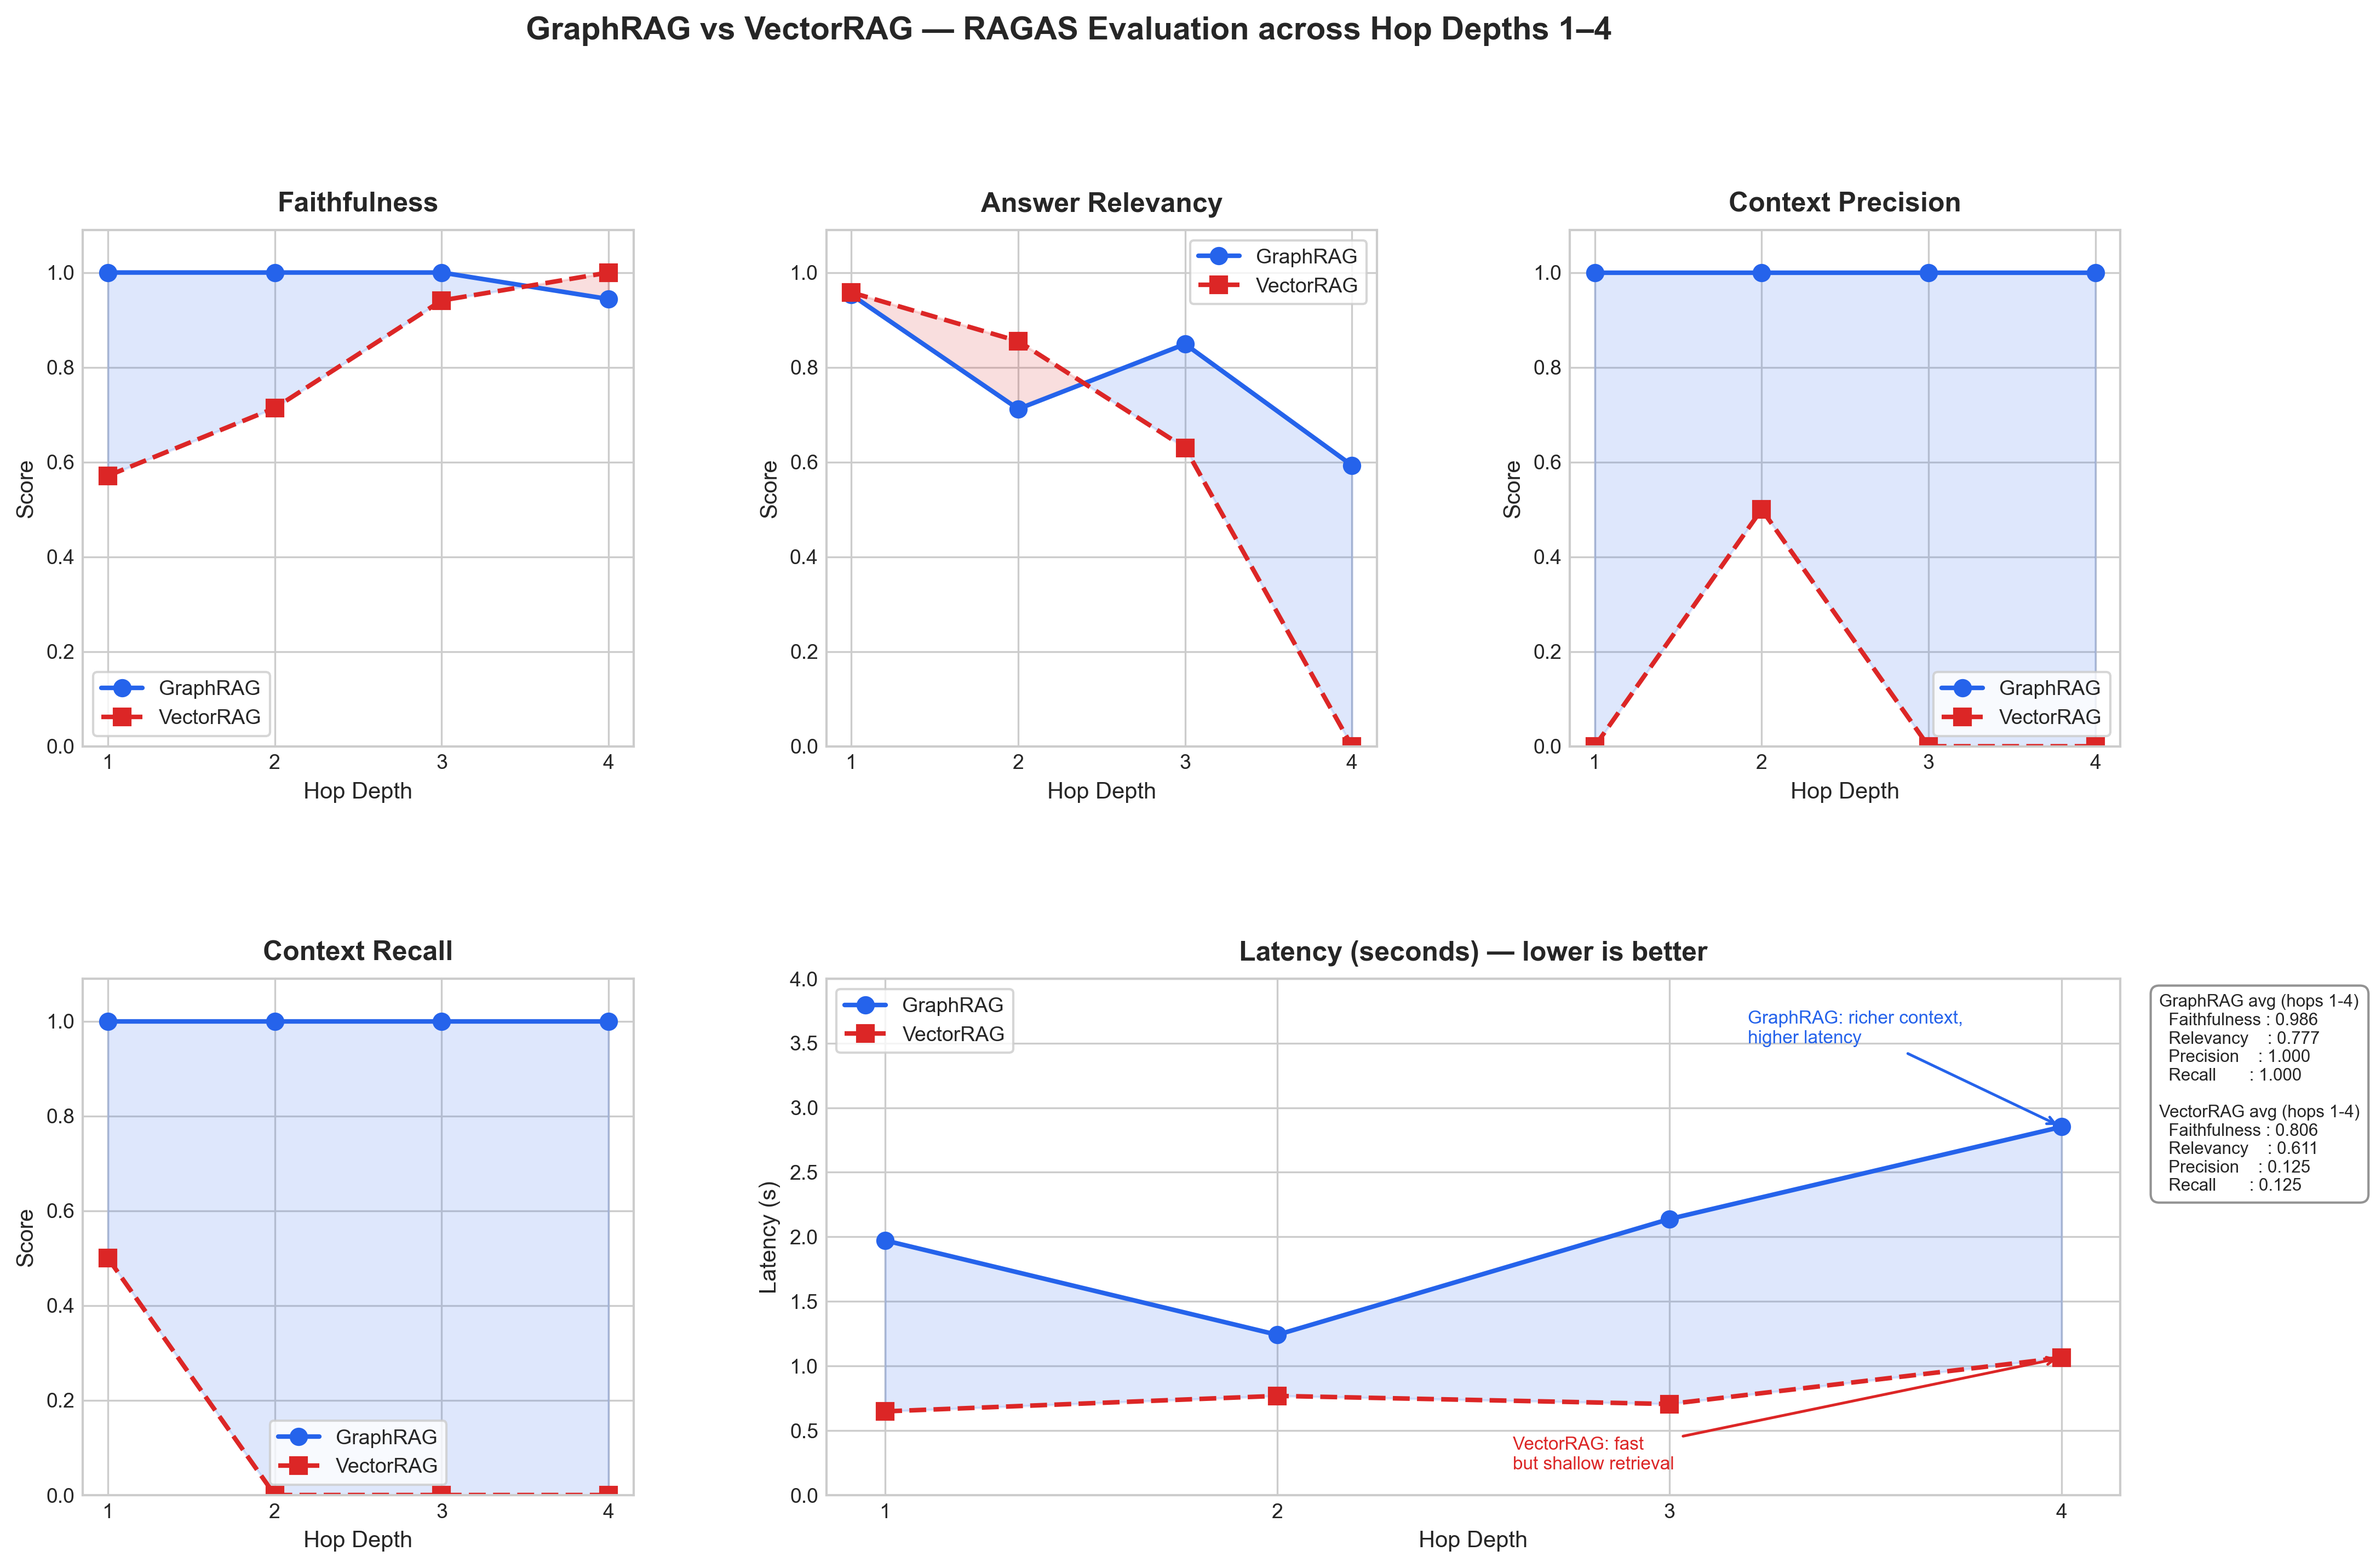
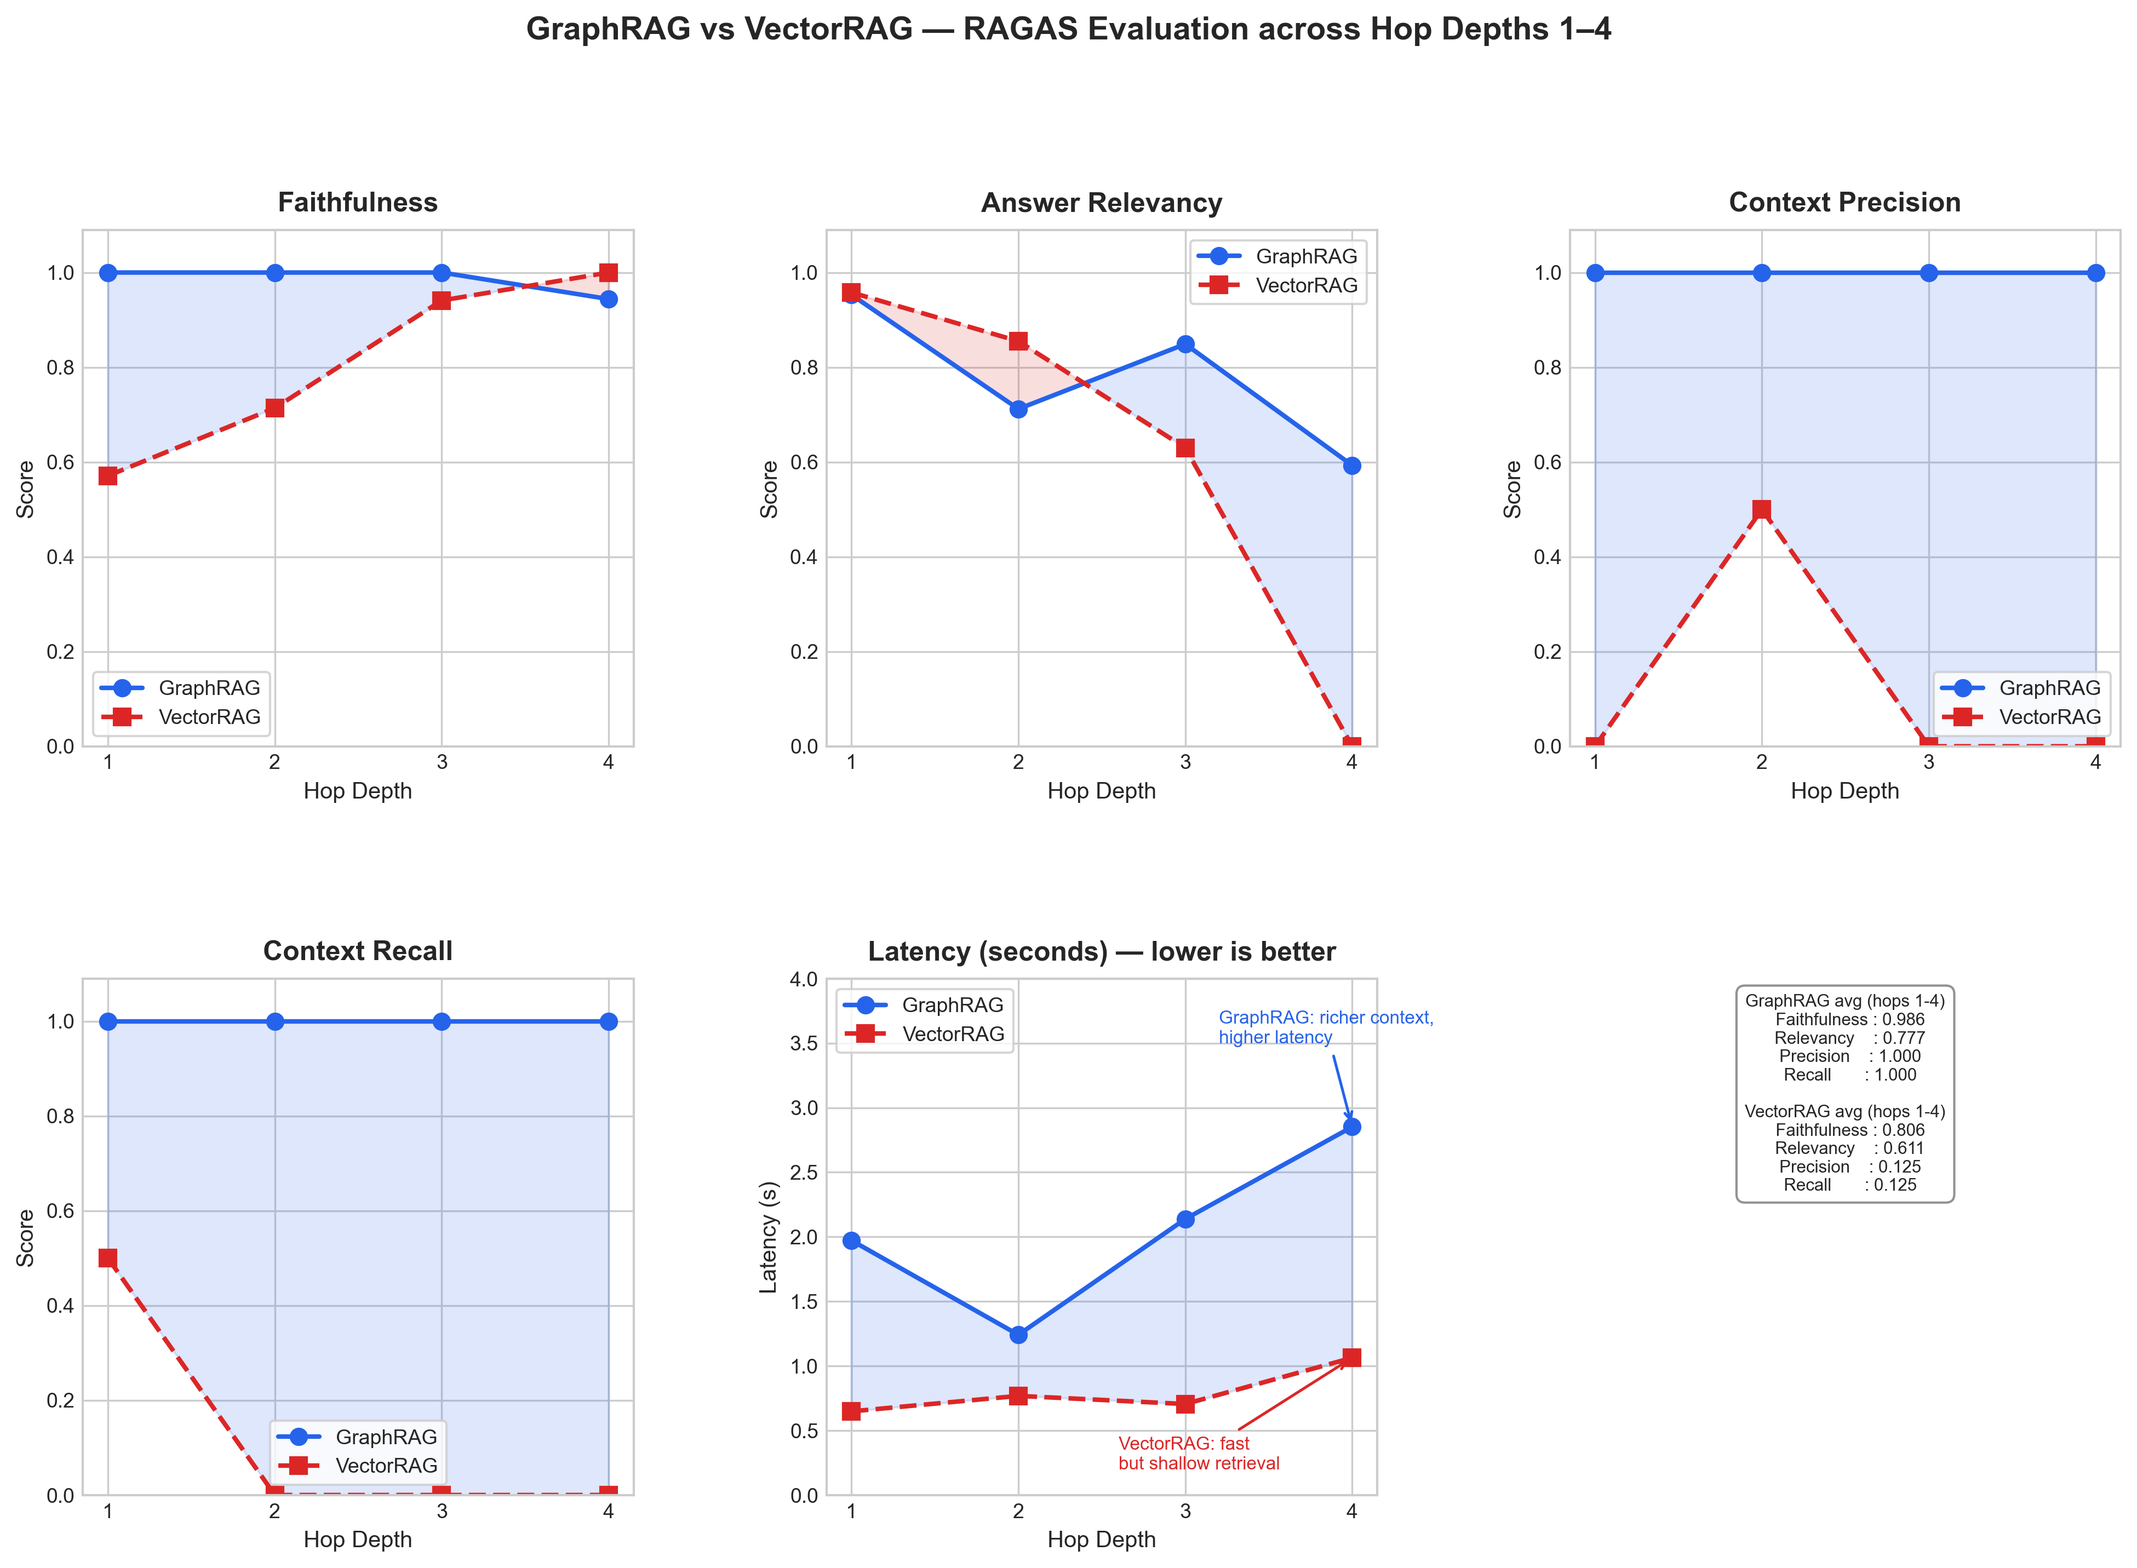
Update plot

diff --git a/plot_metrics.py b/plot_metrics.py
@@ -49,7 +49,7 @@ def _plot_pair(ax, gr, vr, label_gr="GraphRAG", label_vr="VectorRAG"):
                     where=[g < v for g, v in zip(gr, vr)],
                     alpha=ALPHA, color=RED, interpolate=True)
 
-# ── Figure layout: 2 rows × 3 cols (last cell = latency spanning 2 cols) ───
+# ── Figure layout: 2 rows × 3 cols (all cells equal size) ─────────────────
 fig = plt.figure(figsize=(16, 10))
 gs  = fig.add_gridspec(2, 3, hspace=0.45, wspace=0.35)
 
@@ -57,7 +57,8 @@ ax_faith  = fig.add_subplot(gs[0, 0])
 ax_rel    = fig.add_subplot(gs[0, 1])
 ax_prec   = fig.add_subplot(gs[0, 2])
 ax_rec    = fig.add_subplot(gs[1, 0])
-ax_lat    = fig.add_subplot(gs[1, 1:])   # spans columns 1 & 2
+ax_lat    = fig.add_subplot(gs[1, 1])
+ax_sum    = fig.add_subplot(gs[1, 2])
 
 # ── Plot each metric ─────────────────────────────────────────────────────────
 _plot_pair(ax_faith, graphrag_faithfulness,  vectorrag_faithfulness)
@@ -104,10 +105,11 @@ summary = (
     f"  Precision    : {np.mean(vectorrag_precision):.3f}\n"
     f"  Recall       : {np.mean(vectorrag_recall):.3f}"
 )
-ax_lat.text(
-    1.03, 0.97, summary,
-    transform=ax_lat.transAxes,
-    fontsize=7.5, verticalalignment="top",
+ax_sum.axis("off")
+ax_sum.text(
+    0.5, 0.97, summary,
+    transform=ax_sum.transAxes,
+    fontsize=7.5, verticalalignment="top", horizontalalignment="center",
     bbox=dict(boxstyle="round,pad=0.5", facecolor="white",
               edgecolor="grey", alpha=0.85),
 )
